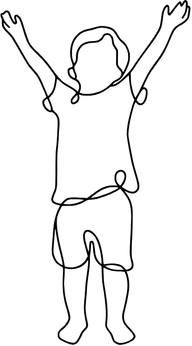
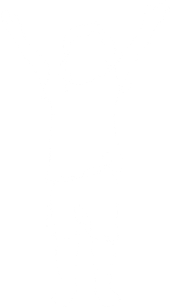
Style clean ups and small content adds

diff --git a/about.html b/about.html
@@ -68,6 +68,8 @@
           <h2>I combine specialist clinical experience with genuinely personal care.</h2>
           <p>I am an International Board Certified Lactation Consultant and neonatal nurse with experience supporting
             premature and term babies, twins and families navigating more complex feeding needs.</p>
+          <p>I have worked for much of my professional career in the neonatal intensive care unit at St Thomas' Hospital
+            in London, and have years of experience of families with non-straightforward feeding needs and journeys.</p>
           <p>My role is not to tell you there is one “right” way to feed. It is to listen carefully, explain what is
             happening, give you evidence-based options, and help you find a plan that is realistic for you.</p>
 
@@ -122,7 +124,7 @@
 
       <div class="footer-col">
         <h3>Contact</h3>
-        <a href="mailto:"></a>
+        <a href="mailto:lactation@agaluna.com">lactation@agaluna.com</a>
         <a href="https://wa.me/447851982560">WhatsApp</a>
       </div>
     </div>

diff --git a/assets/css/style.css b/assets/css/style.css
@@ -329,8 +329,7 @@ p {
   position: relative;
   overflow: hidden;
   background:
-    linear-gradient(135deg, rgba(120, 22, 46, .11), rgba(164, 95, 80, .18)),
-    var(--blush-soft);
+
   background-position: center;
   background-size: cover;
 }
@@ -393,18 +392,15 @@ p {
 }
 
 #antenatal .media-service {
-  background-image: url("../images/service-antenatal.png");
-  background-color: var(--blush-soft);
+  background-image: url("../images/service-antenatal2.png");
 }
 
 #postnatal .media-service {
   background-image: url("../images/service-postnatal.png");
-  background-color: var(--terracotta);
 }
 
 #follow-up .media-service {
-  background-image: url("../images/service-follow-up.png");
-  background-color: var(--blush-soft);
+  background-image: url("../images/service-follow-up2.png");
 }
 
 .media-contact {

diff --git a/contact.html b/contact.html
@@ -52,12 +52,6 @@
     <div class="shell contact-layout">
       <div class="contact-details reveal">
         <div>
-          <p class="small-heading">Let’s get social</p>
-          <a href="#" aria-label="Instagram">Instagram</a>
-          <a href="#" aria-label="Facebook">Facebook</a>
-        </div>
-
-        <div>
           <p class="small-heading">Email</p>
           <a href="mailto:lactation@agaluna.com">lactation@agaluna.com</a>
         </div>

diff --git a/services.html b/services.html
@@ -124,6 +124,8 @@
             <li>Reassess feeding where helpful</li>
             <li>Adjust your feeding plan</li>
             <li>Explore new concerns or questions</li>
+            <li>Preparation for starting nursery/Returning to work</li>
+            <li>Planning and exploring weaning</li>
           </ul>
         </div>
         <div class="media-frame media-service reveal">
